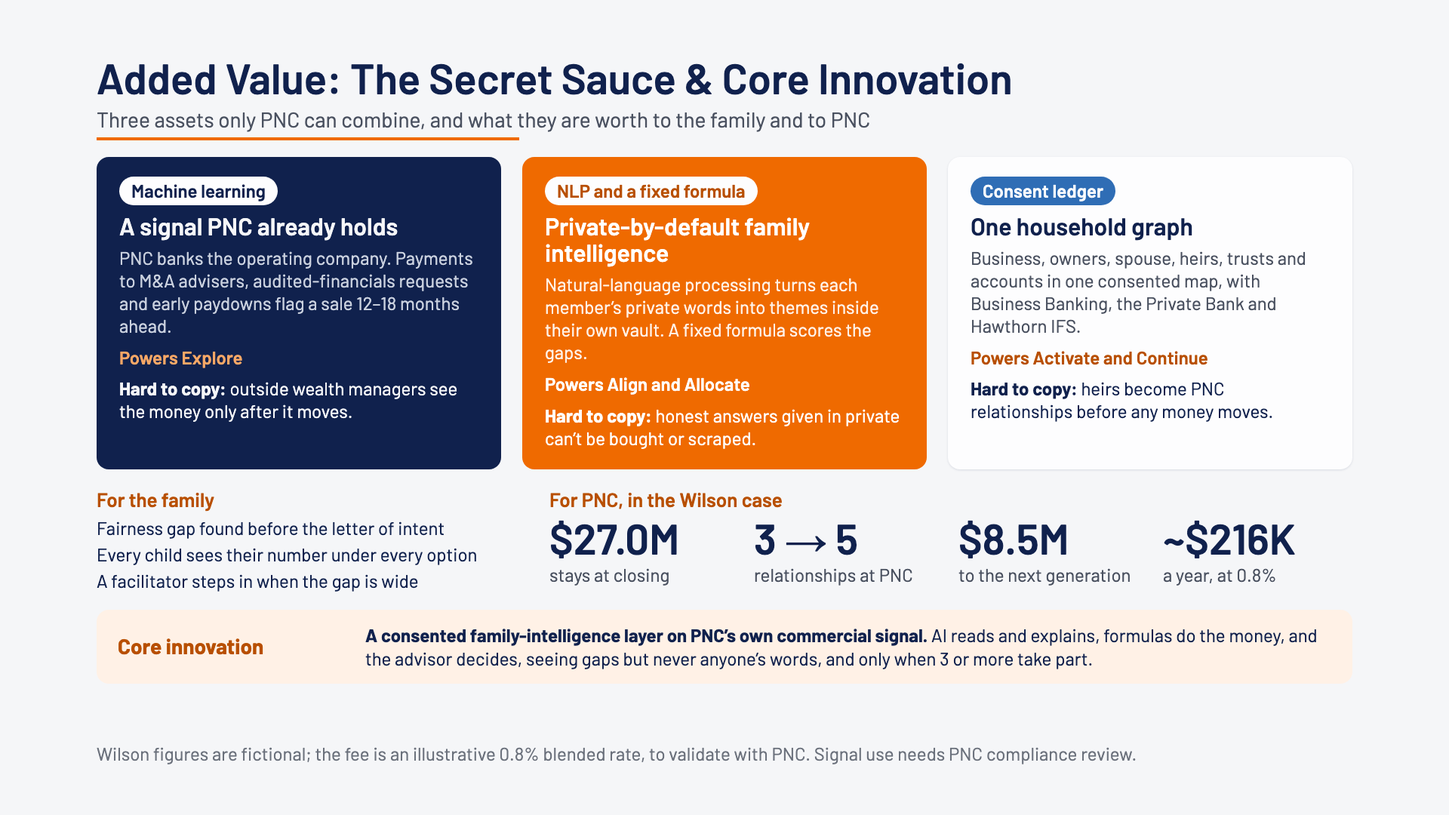
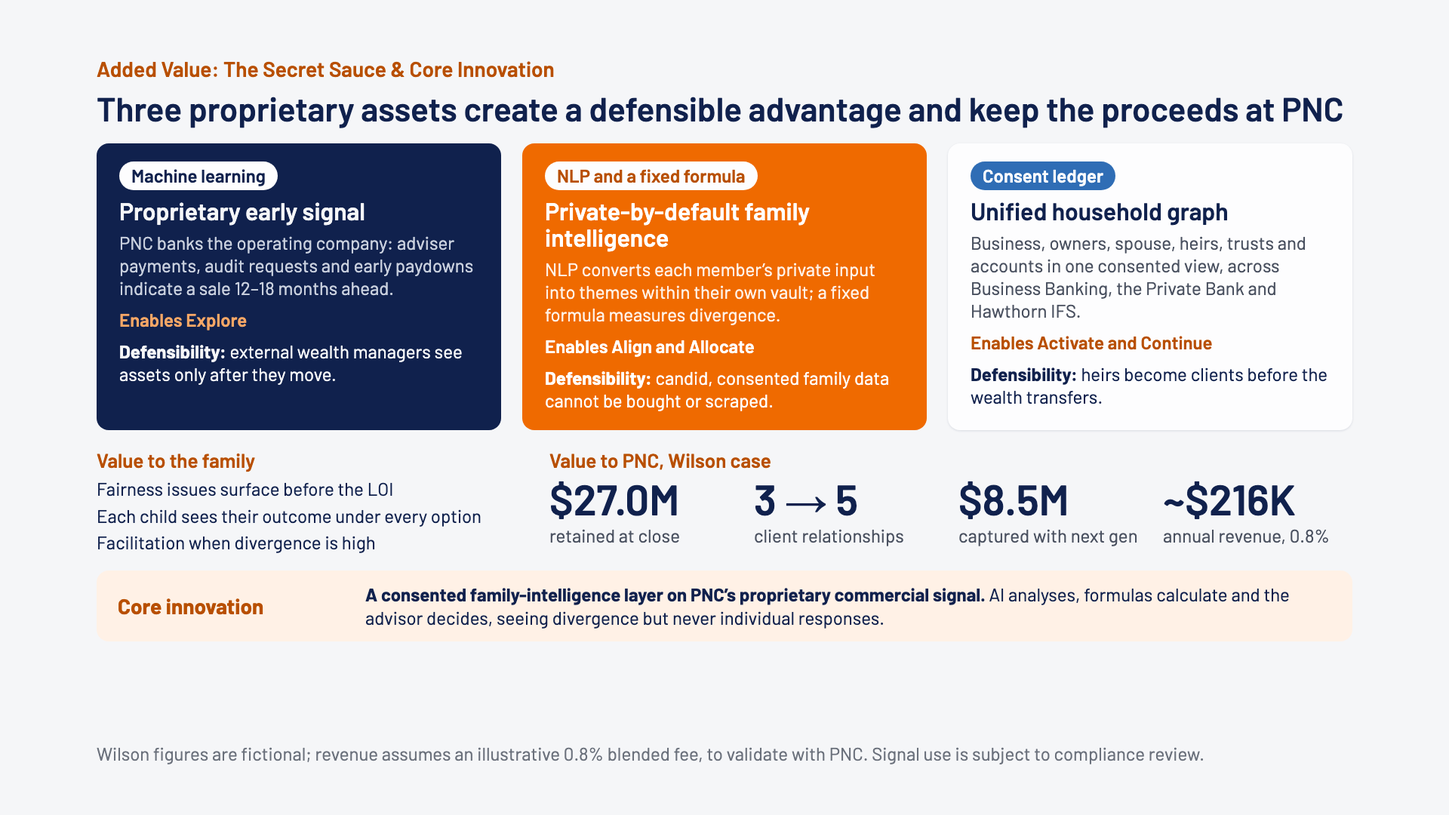
Three-slide deck: three landscape tablets with live links, consulting-style action titles and copy

Changed region(s): [[0.0625, 0.0611, 0.9375, 0.825], [0.2188, 0.9167, 0.8438, 0.9472]]

diff --git a/slides/claude_three/slides/client.html b/slides/claude_three/slides/client.html
@@ -1,54 +1,38 @@
-<section id="client" data-transition="fade" style="background:#F5F6F8;color:#10214D;font-family:'Barlow', Arial, sans-serif;padding:72px 128px 160px;display:flex;flex-direction:column;gap:18px">
-<div style="display:flex;flex-direction:column;gap:6px">
-<h2 style="font-size:56px;font-weight:600;line-height:1.1;color:#10214D">AI Client &amp; Family Experience</h2>
-<p style="font-size:28px;line-height:1.3;color:#4A5160">Two quick steps to start, then the core journey where the family decides: Align, Allocate, Activate</p>
-<div style="width:560px;height:4px;background:#EF6A00"></div>
+<section id="client" data-transition="fade" style="background:#F5F6F8;color:#10214D;font-family:'Barlow', Arial, sans-serif;padding:72px 128px 160px;display:flex;flex-direction:column;gap:22px">
+<div style="display:flex;flex-direction:column;gap:8px">
+<p style="font-size:28px;font-weight:600;color:#B84F00">AI Client &amp; Family Experience</p>
+<h2 style="font-size:44px;font-weight:600;line-height:1.12;color:#10214D">Three guided steps take each family member from a private view to a plan the whole family can stand behind</h2>
 </div>
-<div style="display:flex;flex-direction:row;gap:16px">
-<div style="width:628px;display:flex;flex-direction:row;gap:16px;padding:16px 0">
+<div style="display:flex;flex-direction:row;gap:20px;background:#10214D;border-radius:20px;padding:22px 20px">
 <div style="flex:1;display:flex;flex-direction:column;gap:8px;align-items:center">
-<p style="font-size:24px;font-weight:600;color:#10214D;background:#DDE0E4;padding:2px 20px;border-radius:20px">Explore</p>
-<img src="/_blob/1cb0f5b1113dc45f059174e77e356b79" alt="Scenario preview before talking to PNC: $27.0M likely at closing, split into live on, give and invest" style="width:212px;height:283px;object-fit:cover;object-position:top;border:7px solid #0B1533;border-radius:16px">
-<h3 style="font-size:28px;font-weight:600;line-height:1.15;color:#10214D;text-align:center">See what a sale could mean</h3>
-<p style="font-size:24px;line-height:1.25;color:#4A5160;text-align:center">Before talking to anyone: the likely amount at closing, and two ways to split it.</p>
-<p style="font-size:24px;line-height:1.25;color:#5B3E8A;text-align:center"><b>AI:</b> none; fixed ratios do the math.</p>
-</div>
-<div style="flex:1;display:flex;flex-direction:column;gap:8px;align-items:center">
-<p style="font-size:24px;font-weight:600;color:#10214D;background:#DDE0E4;padding:2px 20px;border-radius:20px">Onboard</p>
-<img src="/_blob/316019cbfc0dbc99ebe8c3c1662e1ee0" alt="Margaret's setup: what fair means to her, with each child's number, and how long $9.0M lasts" style="width:212px;height:283px;object-fit:cover;object-position:top;border:7px solid #0B1533;border-radius:16px">
-<h3 style="font-size:28px;font-weight:600;line-height:1.15;color:#10214D;text-align:center">Confirm facts, sharpen goals</h3>
-<p style="font-size:24px;line-height:1.25;color:#4A5160;text-align:center">PNC fills in what it knows. Margaret ranks three goals and says what fair means.</p>
-<p style="font-size:24px;line-height:1.25;color:#5B3E8A;text-align:center"><b>AI:</b> prefills from PNC records.</p>
-</div>
-</div>
-<div style="flex:1;display:flex;flex-direction:row;gap:16px;background:#10214D;border-radius:20px;padding:16px">
-<div style="flex:1;display:flex;flex-direction:column;gap:8px;align-items:center">
-<p style="font-size:24px;font-weight:600;color:#FFFFFF;background:#EF6A00;padding:2px 20px;border-radius:20px">Align</p>
-<img src="/_blob/c85abe67e76cb8efe76991d7a8abc647" alt="Claire's private check-in: themes detected and a switch to share each answer with Alex" style="width:212px;height:283px;object-fit:cover;object-position:top;border:7px solid #0B1533;border-radius:16px">
-<h3 style="font-size:28px;font-weight:600;line-height:1.15;color:#F5F6F8;text-align:center">Speak in private</h3>
-<p style="font-size:24px;line-height:1.25;color:#C9D0DE;text-align:center">Claire writes what she’s never said, then chooses what Alex may read.</p>
-<p style="font-size:24px;line-height:1.25;color:#D4C6F2;text-align:center"><b>AI:</b> NLP tags themes in her own vault.</p>
+<p style="font-size:24px;font-weight:600;color:#FFFFFF;background:#EF6A00;padding:2px 22px;border-radius:20px">Align</p>
+<img src="/_blob/7a443fab7cc85da3af9e053f8f822af8" alt="Claire's private check-in on a tablet: AI themes detected, a share switch per answer, and a preview of what Alex sees" style="width:360px;height:270px;object-fit:cover;object-position:top;border:7px solid #0B1533;border-radius:16px">
+<h3 style="font-size:30px;font-weight:600;line-height:1.15;color:#F5F6F8;text-align:center">Surface views privately</h3>
+<p style="font-size:24px;line-height:1.25;color:#C9D0DE;text-align:center">Each member checks in alone and decides, answer by answer, what the advisor sees.</p>
+<p style="font-size:24px;line-height:1.25;color:#D4C6F2;text-align:center"><b>AI:</b> NLP extracts themes, privately</p>
+<p style="font-size:24px;font-weight:600;text-align:center"><a href="https://rzrizaldy.github.io/pnc_csl_2026/prototype/?reset#/me/claire/checkin" style="color:#F7A766">Try it live</a></p>
 </div>
 <div style="flex:1;display:flex;flex-direction:column;gap:8px;align-items:center">
-<p style="font-size:24px;font-weight:600;color:#FFFFFF;background:#EF6A00;padding:2px 20px;border-radius:20px">Allocate</p>
-<img src="/_blob/2a928541732968e0879d946d6c07b261" alt="Sam's decision tree: three choices narrow 12 possible plans to 1" style="width:212px;height:283px;object-fit:cover;object-position:top;border:7px solid #0B1533;border-radius:16px">
-<h3 style="font-size:28px;font-weight:600;line-height:1.15;color:#F5F6F8;text-align:center">Vote, then 12 plans to 1</h3>
-<p style="font-size:24px;line-height:1.25;color:#C9D0DE;text-align:center">Each child’s number under every split, a private vote, and a decision tree.</p>
-<p style="font-size:24px;line-height:1.25;color:#D4C6F2;text-align:center"><b>AI:</b> explains; formulas do every number.</p>
+<p style="font-size:24px;font-weight:600;color:#FFFFFF;background:#EF6A00;padding:2px 22px;border-radius:20px">Allocate</p>
+<img src="/_blob/1be6eb346b1834d3dbd6ae0bc9948737" alt="Sam's decision tree on a tablet: three choices narrow 12 possible plans to 1, with every child's resulting share" style="width:360px;height:270px;object-fit:cover;object-position:top;border:7px solid #0B1533;border-radius:16px">
+<h3 style="font-size:30px;font-weight:600;line-height:1.15;color:#F5F6F8;text-align:center">Make trade-offs visible</h3>
+<p style="font-size:24px;line-height:1.25;color:#C9D0DE;text-align:center">Children see their outcome under each option, vote privately and converge on one plan.</p>
+<p style="font-size:24px;line-height:1.25;color:#D4C6F2;text-align:center"><b>AI:</b> explains trade-offs; formulas compute</p>
+<p style="font-size:24px;font-weight:600;text-align:center"><a href="https://rzrizaldy.github.io/pnc_csl_2026/prototype/?reset#/me/sam/decide" style="color:#F7A766">Try it live</a></p>
 </div>
 <div style="flex:1;display:flex;flex-direction:column;gap:8px;align-items:center">
-<p style="font-size:24px;font-weight:600;color:#FFFFFF;background:#EF6A00;padding:2px 20px;border-radius:20px">Activate</p>
-<img src="/_blob/f74c6b25cfbf615cb9270e24198f0b0e" alt="Ask Alex: Sam's question and Alex's reviewed reply with his share range" style="width:212px;height:283px;object-fit:cover;object-position:top;border:7px solid #0B1533;border-radius:16px">
-<h3 style="font-size:28px;font-weight:600;line-height:1.15;color:#F5F6F8;text-align:center">Ask a person, not a bot</h3>
-<p style="font-size:24px;line-height:1.25;color:#C9D0DE;text-align:center">Questions go to Alex. The reply carries its numbers; a call is one tap away.</p>
-<p style="font-size:24px;line-height:1.25;color:#D4C6F2;text-align:center"><b>AI:</b> drafts; Alex checks before it’s sent.</p>
+<p style="font-size:24px;font-weight:600;color:#FFFFFF;background:#EF6A00;padding:2px 22px;border-radius:20px">Activate</p>
+<img src="/_blob/4aef0e68153783241b74dfe501e7ea06" alt="Ask Alex on a tablet: Sam's question and Alex's reviewed reply with his share range, plus a call booking option" style="width:360px;height:270px;object-fit:cover;object-position:top;border:7px solid #0B1533;border-radius:16px">
+<h3 style="font-size:30px;font-weight:600;line-height:1.15;color:#F5F6F8;text-align:center">Act with the advisor</h3>
+<p style="font-size:24px;line-height:1.25;color:#C9D0DE;text-align:center">The advisor answers questions, reviews each AI draft and brings in specialists.</p>
+<p style="font-size:24px;line-height:1.25;color:#D4C6F2;text-align:center"><b>AI:</b> drafts replies for advisor approval</p>
+<p style="font-size:24px;font-weight:600;text-align:center"><a href="https://rzrizaldy.github.io/pnc_csl_2026/prototype/?reset#/me/sam/ask" style="color:#F7A766">Try it live</a></p>
 </div>
 </div>
+<div style="display:flex;flex-direction:row;gap:28px;align-items:center;background:#FFF1E6;border-radius:16px;padding:16px 28px">
+<p style="width:300px;font-size:28px;font-weight:700;line-height:1.1;color:#B84F00">Family outcome</p>
+<p style="flex:1;font-size:24px;line-height:1.3;color:#10214D"><b>Clarity</b> on what each person receives, <b>fairness</b> without confrontation, and <b>confidence</b> that a person reviews every answer.</p>
 </div>
-<div style="display:flex;flex-direction:row;gap:28px;align-items:center;background:#FFF1E6;border-radius:16px;padding:14px 28px">
-<p style="width:300px;font-size:28px;font-weight:700;line-height:1.1;color:#B84F00">What the family gets</p>
-<p style="flex:1;font-size:24px;line-height:1.3;color:#10214D"><b>Clarity:</b> their own number, not a guess. <b>Fairness:</b> a private voice, without a fight at dinner. <b>Confidence:</b> every answer is checked by a person before it reaches them.</p>
-</div>
-<p style="position:absolute;left:128px;bottom:64px;width:1664px;font-size:24px;color:#6B717C">Source: Family Table prototype (tablet view). The Wilson family, portraits and figures are fictional; AI steps are simulated, formulas are real.</p>
-<aside>Five moments on the family side, all on a phone. Explore and Onboard are the lead-in; the core journey, where the family actually decides, is Align, Allocate and Activate. Before Margaret ever talks to PNC, the preview shows what a sale could mean for a family like hers. Once she joins, PNC has already filled in the facts; she ranks her goals and says what fair means to her. Claire checks in privately: natural-language processing tags themes, and she decides what Alex may read. Each child sees their own number under every split, votes privately, and a decision tree narrows 12 possible plans to one. Questions go to Alex, not a chatbot: the AI drafts, Alex checks and sends. This answers Margaret’s friction: a guided portal, not a dense dashboard, and no direct confrontation at the dinner table.</aside>
+<p style="position:absolute;left:128px;bottom:64px;width:1664px;font-size:24px;color:#6B717C">Source: Family Table prototype, tablet view; <a href="https://rzrizaldy.github.io/pnc_csl_2026/prototype/?tour" style="color:#2A6EBB">full demo</a>. Family, portraits and figures are fictional; AI steps are simulated.</p>
+<aside>The family experience reduces to three steps, the core of the journey. Align: each member checks in privately; natural-language processing extracts themes inside their own vault, and the member decides, answer by answer, what the advisor may read. Allocate: each child sees their outcome under every distribution option, votes privately, and a decision tree narrows twelve possible plans to one; every figure comes from a fixed formula. Activate: questions go to the advisor, not a chatbot; the AI drafts, the advisor reviews and sends, and brings in specialists as needed. Each tablet links to the same screen in the live prototype, so the audience can try it. This addresses Margaret’s friction directly: a guided experience rather than a dense dashboard, and no direct confrontation at the dinner table.</aside>
 </section>

diff --git a/slides/claude_three/slides/sauce.html b/slides/claude_three/slides/sauce.html
@@ -1,53 +1,52 @@
 <section id="sauce" data-transition="fade" style="background:#F5F6F8;color:#10214D;font-family:'Barlow', Arial, sans-serif;padding:72px 128px 160px;display:flex;flex-direction:column;gap:22px">
-<div style="display:flex;flex-direction:column;gap:6px">
-<h2 style="font-size:56px;font-weight:600;line-height:1.1;color:#10214D">Added Value: The Secret Sauce &amp; Core Innovation</h2>
-<p style="font-size:28px;line-height:1.3;color:#4A5160">Three assets only PNC can combine, and what they are worth to the family and to PNC</p>
-<div style="width:560px;height:4px;background:#EF6A00"></div>
+<div style="display:flex;flex-direction:column;gap:8px">
+<p style="font-size:28px;font-weight:600;color:#B84F00">Added Value: The Secret Sauce &amp; Core Innovation</p>
+<h2 style="font-size:44px;font-weight:600;line-height:1.12;color:#10214D">Three proprietary assets create a defensible advantage and keep the proceeds at PNC</h2>
 </div>
 <div style="display:flex;flex-direction:row;gap:28px">
-<div style="flex:1;display:flex;flex-direction:column;gap:10px;background:#10214D;padding:26px 30px;border-radius:16px">
+<div style="flex:1;display:flex;flex-direction:column;gap:10px;background:#10214D;padding:24px 30px;border-radius:16px">
 <div style="display:flex;flex-direction:row"><p style="font-size:24px;font-weight:600;color:#10214D;background:#FDFDFE;padding:2px 16px;border-radius:20px">Machine learning</p></div>
-<h3 style="font-size:32px;font-weight:600;line-height:1.1;color:#F5F6F8">A signal PNC already holds</h3>
-<p style="font-size:24px;line-height:1.25;color:#C9D0DE">PNC banks the operating company. Payments to M&amp;A advisers, audited-financials requests and early paydowns flag a sale 12–18 months ahead.</p>
-<p style="font-size:24px;font-weight:600;color:#F7A766">Powers Explore</p>
-<p style="font-size:24px;line-height:1.25;color:#F5F6F8"><b>Hard to copy:</b> outside wealth managers see the money only after it moves.</p>
+<h3 style="font-size:32px;font-weight:600;line-height:1.1;color:#F5F6F8">Proprietary early signal</h3>
+<p style="font-size:24px;line-height:1.25;color:#C9D0DE">PNC banks the operating company: adviser payments, audit requests and early paydowns indicate a sale 12–18 months ahead.</p>
+<p style="font-size:24px;font-weight:600;color:#F7A766">Enables Explore</p>
+<p style="font-size:24px;line-height:1.25;color:#F5F6F8"><b>Defensibility:</b> external wealth managers see assets only after they move.</p>
 </div>
-<div style="flex:1;display:flex;flex-direction:column;gap:10px;background:#EF6A00;padding:26px 30px;border-radius:16px">
+<div style="flex:1;display:flex;flex-direction:column;gap:10px;background:#EF6A00;padding:24px 30px;border-radius:16px">
 <div style="display:flex;flex-direction:row"><p style="font-size:24px;font-weight:600;color:#B84F00;background:#FDFDFE;padding:2px 16px;border-radius:20px">NLP and a fixed formula</p></div>
 <h3 style="font-size:32px;font-weight:600;line-height:1.1;color:#FFFFFF">Private-by-default family intelligence</h3>
-<p style="font-size:24px;line-height:1.25;color:#FFF1E6">Natural-language processing turns each member’s private words into themes inside their own vault. A fixed formula scores the gaps.</p>
-<p style="font-size:24px;font-weight:600;color:#FFFFFF">Powers Align and Allocate</p>
-<p style="font-size:24px;line-height:1.25;color:#FFFFFF"><b>Hard to copy:</b> honest answers given in private can’t be bought or scraped.</p>
+<p style="font-size:24px;line-height:1.25;color:#FFF1E6">NLP converts each member’s private input into themes within their own vault; a fixed formula measures divergence.</p>
+<p style="font-size:24px;font-weight:600;color:#FFFFFF">Enables Align and Allocate</p>
+<p style="font-size:24px;line-height:1.25;color:#FFFFFF"><b>Defensibility:</b> candid, consented family data cannot be bought or scraped.</p>
 </div>
-<div style="flex:1;display:flex;flex-direction:column;gap:10px;background:#FDFDFE;padding:26px 30px;border-radius:16px;box-shadow:0px 1px 3px rgba(16,33,77,0.12)">
+<div style="flex:1;display:flex;flex-direction:column;gap:10px;background:#FDFDFE;padding:24px 30px;border-radius:16px;box-shadow:0px 1px 3px rgba(16,33,77,0.12)">
 <div style="display:flex;flex-direction:row"><p style="font-size:24px;font-weight:600;color:#FDFDFE;background:#2F6DB5;padding:2px 16px;border-radius:20px">Consent ledger</p></div>
-<h3 style="font-size:32px;font-weight:600;line-height:1.1;color:#10214D">One household graph</h3>
-<p style="font-size:24px;line-height:1.25;color:#4A5160">Business, owners, spouse, heirs, trusts and accounts in one consented map, with Business Banking, the Private Bank and Hawthorn IFS.</p>
-<p style="font-size:24px;font-weight:600;color:#B84F00">Powers Activate and Continue</p>
-<p style="font-size:24px;line-height:1.25;color:#10214D"><b>Hard to copy:</b> heirs become PNC relationships before any money moves.</p>
+<h3 style="font-size:32px;font-weight:600;line-height:1.1;color:#10214D">Unified household graph</h3>
+<p style="font-size:24px;line-height:1.25;color:#4A5160">Business, owners, spouse, heirs, trusts and accounts in one consented view, across Business Banking, the Private Bank and Hawthorn IFS.</p>
+<p style="font-size:24px;font-weight:600;color:#B84F00">Enables Activate and Continue</p>
+<p style="font-size:24px;line-height:1.25;color:#10214D"><b>Defensibility:</b> heirs become clients before the wealth transfers.</p>
 </div>
 </div>
 <div style="display:flex;flex-direction:row;gap:40px">
 <div style="width:560px;display:flex;flex-direction:column;gap:4px">
-<p style="font-size:26px;font-weight:600;color:#B84F00">For the family</p>
-<p style="font-size:24px;line-height:1.3;color:#10214D">Fairness gap found before the letter of intent</p>
-<p style="font-size:24px;line-height:1.3;color:#10214D">Every child sees their number under every option</p>
-<p style="font-size:24px;line-height:1.3;color:#10214D">A facilitator steps in when the gap is wide</p>
+<p style="font-size:26px;font-weight:600;color:#B84F00">Value to the family</p>
+<p style="font-size:24px;line-height:1.3;color:#10214D">Fairness issues surface before the LOI</p>
+<p style="font-size:24px;line-height:1.3;color:#10214D">Each child sees their outcome under every option</p>
+<p style="font-size:24px;line-height:1.3;color:#10214D">Facilitation when divergence is high</p>
 </div>
 <div style="flex:1;display:flex;flex-direction:column;gap:4px">
-<p style="font-size:26px;font-weight:600;color:#B84F00">For PNC, in the Wilson case</p>
+<p style="font-size:26px;font-weight:600;color:#B84F00">Value to PNC, Wilson case</p>
 <div style="display:flex;flex-direction:row;gap:20px">
-<div style="flex:1;display:flex;flex-direction:column;gap:2px"><p style="font-size:56px;font-weight:600;line-height:1.05;color:#10214D">$27.0M</p><p style="font-size:24px;color:#4A5160">stays at closing</p></div>
-<div style="flex:1;display:flex;flex-direction:column;gap:2px"><p style="font-size:56px;font-weight:600;line-height:1.05;color:#10214D">3 → 5</p><p style="font-size:24px;color:#4A5160">relationships at PNC</p></div>
-<div style="flex:1;display:flex;flex-direction:column;gap:2px"><p style="font-size:56px;font-weight:600;line-height:1.05;color:#10214D">$8.5M</p><p style="font-size:24px;color:#4A5160">to the next generation</p></div>
-<div style="flex:1;display:flex;flex-direction:column;gap:2px"><p style="font-size:56px;font-weight:600;line-height:1.05;color:#10214D">~$216K</p><p style="font-size:24px;color:#4A5160">a year, at 0.8%</p></div>
+<div style="flex:1;display:flex;flex-direction:column;gap:2px"><p style="font-size:56px;font-weight:600;line-height:1.05;color:#10214D">$27.0M</p><p style="font-size:24px;color:#4A5160">retained at close</p></div>
+<div style="flex:1;display:flex;flex-direction:column;gap:2px"><p style="font-size:56px;font-weight:600;line-height:1.05;color:#10214D">3 → 5</p><p style="font-size:24px;color:#4A5160">client relationships</p></div>
+<div style="flex:1;display:flex;flex-direction:column;gap:2px"><p style="font-size:56px;font-weight:600;line-height:1.05;color:#10214D">$8.5M</p><p style="font-size:24px;color:#4A5160">captured with next gen</p></div>
+<div style="flex:1;display:flex;flex-direction:column;gap:2px"><p style="font-size:56px;font-weight:600;line-height:1.05;color:#10214D">~$216K</p><p style="font-size:24px;color:#4A5160">annual revenue, 0.8%</p></div>
 </div>
 </div>
 </div>
-<div style="display:flex;flex-direction:row;gap:28px;align-items:center;background:#FFF1E6;border-radius:16px;padding:18px 28px">
+<div style="display:flex;flex-direction:row;gap:28px;align-items:center;background:#FFF1E6;border-radius:16px;padding:16px 28px">
 <p style="width:300px;font-size:28px;font-weight:700;line-height:1.1;color:#B84F00">Core innovation</p>
-<p style="flex:1;font-size:24px;line-height:1.3;color:#10214D"><b>A consented family-intelligence layer on PNC’s own commercial signal.</b> AI reads and explains, formulas do the money, and the advisor decides, seeing gaps but never anyone’s words, and only when 3 or more take part.</p>
+<p style="flex:1;font-size:24px;line-height:1.3;color:#10214D"><b>A consented family-intelligence layer on PNC’s proprietary commercial signal.</b> AI analyses, formulas calculate and the advisor decides, seeing divergence but never individual responses.</p>
 </div>
-<p style="position:absolute;left:128px;bottom:64px;width:1664px;font-size:24px;color:#6B717C">Wilson figures are fictional; the fee is an illustrative 0.8% blended rate, to validate with PNC. Signal use needs PNC compliance review.</p>
-<aside>Generative AI and alerts are easy to copy; these three assets are not. First, timing: PNC banks the operating company, so its own account data can flag a sale a year before closing, while outside wealth managers see the money only after it moves. Second, private-by-default family intelligence: natural-language processing turns each member’s private words into themes inside their own vault, a fixed formula scores the gaps, and Alex sees the size of a disagreement, never the words, and only when at least three people take part. Honest answers given in private are data no competitor can buy or scrape. Third, one household graph links the business to every heir, so the next generation meets PNC before the money moves. The added value: for the family, the fairness question surfaces before the letter of intent. For PNC, in the Wilson case, $27.0M stays, relationships grow from three to five, $8.5M reaches the next generation at PNC, and the fees are about $216K a year at an illustrative 0.8%.</aside>
+<p style="position:absolute;left:128px;bottom:64px;width:1664px;font-size:24px;color:#6B717C">Wilson figures are fictional; revenue assumes an illustrative 0.8% blended fee, to validate with PNC. Signal use is subject to compliance review.</p>
+<aside>Generative AI and alerts are easy to replicate; these three assets are not, and each enables a stage of the journey. The proprietary early signal enables Explore: PNC banks the operating company, so its own account data can indicate a sale a year before closing, while external wealth managers see the assets only after they move. Private-by-default family intelligence enables Align and Allocate: natural-language processing converts each member’s private input into themes inside their own vault, a fixed formula measures divergence, and the advisor sees the size of a disagreement, never individual responses, and only when at least three members contribute. Candid, consented family data cannot be bought or scraped. The unified household graph enables Activate and Continue: the next generation becomes a PNC relationship before the wealth transfers. In the Wilson case, $27.0M is retained at close, client relationships grow from three to five, $8.5M is captured with the next generation, and annual revenue is about $216K at an illustrative 0.8% blended fee.</aside>
 </section>

diff --git a/slides/claude_three/slides/advisor.html b/slides/claude_three/slides/advisor.html
@@ -1,29 +1,28 @@
 <section id="advisor" data-transition="fade" style="background:#F5F6F8;color:#10214D;font-family:'Barlow', Arial, sans-serif;padding:72px 128px 160px;display:flex;flex-direction:column;gap:22px">
-<div style="display:flex;flex-direction:column;gap:6px">
-<h2 style="font-size:56px;font-weight:600;line-height:1.1;color:#10214D">AI Advisor Workbench</h2>
-<p style="font-size:28px;line-height:1.3;color:#4A5160">Alex sees the sale a year early, then AI does the reading in each core stage and Alex makes every call</p>
-<div style="width:560px;height:4px;background:#EF6A00"></div>
+<div style="display:flex;flex-direction:column;gap:8px">
+<p style="font-size:28px;font-weight:600;color:#B84F00">AI Advisor Workbench</p>
+<h2 style="font-size:44px;font-weight:600;line-height:1.12;color:#10214D">AI handles the analysis, so the advisor can focus on judgment and the relationship</h2>
 </div>
 <div style="display:flex;flex-direction:row;gap:28px">
 <table style="width:1146px;font-family:'Barlow', Arial, sans-serif;font-size:24px;color:#10214D">
-<tr style="background:#10214D"><th style="width:13%;color:#F5F6F8">Stage</th><th style="width:18%;color:#F5F6F8">AI tool</th><th style="width:39%;color:#F5F6F8">What the AI does</th><th style="width:30%;color:#F5F6F8">What Alex decides</th></tr>
-<tr style="background:#FDFDFE"><td style="color:#5E646E"><b>Explore</b></td><td><b>Sale signal</b></td><td style="color:#4A5160">Machine learning scores business-account activity: 81 out of 100, 12–18 months before closing, with its reasons.</td><td>Whether and when to call Margaret.</td></tr>
-<tr style="background:#FFF1E6"><td style="color:#B84F00"><b>Align</b></td><td><b>Family brief</b></td><td style="color:#4A5160">NLP turns four check-ins into themes; a fixed formula scores the gaps (fairness 1.00); Document AI flags the 2012 will.</td><td>Approves the brief. Books a Hawthorn facilitator when a gap passes 0.75.</td></tr>
-<tr style="background:#FDFDFE"><td style="color:#B84F00"><b>Allocate</b></td><td><b>Meeting guide and options</b></td><td style="color:#4A5160">Turns the brief into a 90-minute run of show and five presenting screens; explains each split by formula.</td><td>What to present. The facilitator leads fairness; the family decides in principle.</td></tr>
-<tr style="background:#FFF1E6"><td style="color:#B84F00"><b>Activate</b></td><td><b>Inbox and specialists</b></td><td style="color:#4A5160">Drafts each reply from the plan; routes five specialist teams; flags $8.0–9.0M heading to heirs who bank elsewhere.</td><td>Sends every reply. Introduces PNC to Claire and Sam, with Margaret’s agreement.</td></tr>
+<tr style="background:#10214D"><th style="width:13%;color:#F5F6F8">Stage</th><th style="width:18%;color:#F5F6F8">AI tool</th><th style="width:39%;color:#F5F6F8">What the AI does</th><th style="width:30%;color:#F5F6F8">What the advisor decides</th></tr>
+<tr style="background:#FDFDFE"><td style="color:#5E646E"><b>Explore</b></td><td><b>Sale signal</b></td><td style="color:#4A5160">Scores business-account activity to flag a likely sale 12–18 months out (81/100), with its drivers.</td><td>Whether and when to engage the founder.</td></tr>
+<tr style="background:#FFF1E6"><td style="color:#B84F00"><b>Align</b></td><td><b>Family brief</b></td><td style="color:#4A5160">Converts four private check-ins into themes, scores divergence by formula (fairness: 1.00) and flags the 2012 will.</td><td>Approves the brief; brings in a Hawthorn facilitator above 0.75.</td></tr>
+<tr style="background:#FDFDFE"><td style="color:#B84F00"><b>Allocate</b></td><td><b>Meeting guide</b></td><td style="color:#4A5160">Builds a 90-minute agenda and five presentation screens; explains each option with calculator outputs.</td><td>Leads the meeting; the facilitator manages the fairness discussion.</td></tr>
+<tr style="background:#FFF1E6"><td style="color:#B84F00"><b>Activate</b></td><td><b>Inbox and referrals</b></td><td style="color:#4A5160">Drafts client replies, routes work to five specialist teams and flags $8.0–9.0M heading to non-client heirs.</td><td>Approves every reply; introduces PNC to Claire and Sam, with Margaret’s consent.</td></tr>
 </table>
 <div style="flex:1;display:flex;flex-direction:column;gap:8px">
 <img src="/_blob/e28ff431a61dd2cc888fb85e2d6329ba" alt="AI brief: the widest gap is 1.00 on equal shares, against Margaret's belief that the kids agree, with each AI step shown" style="width:490px;height:240px;object-fit:cover;object-position:top;border:1px solid #DDE0E4;border-radius:8px">
-<p style="font-size:24px;color:#4A5160"><b>AI brief:</b> each step shown, Alex approves</p>
+<p style="font-size:24px;color:#4A5160"><b>AI brief:</b> traceable steps, advisor sign-off</p>
 <div style="height:8px"></div>
 <img src="/_blob/f6f8d993b93b82da60e607184f52e4e6" alt="Meeting guide: a 90-minute run of show in five segments, with a button to present to the family" style="width:490px;height:240px;object-fit:cover;object-position:top;border:1px solid #DDE0E4;border-radius:8px">
-<p style="font-size:24px;color:#4A5160"><b>Meeting guide:</b> AI drafts, Alex presents</p>
+<p style="font-size:24px;color:#4A5160"><b>Meeting guide:</b> AI-drafted, advisor-led</p>
 </div>
 </div>
-<div style="display:flex;flex-direction:row;gap:28px;align-items:center;background:#FFF1E6;border-radius:16px;padding:18px 28px">
-<p style="width:300px;font-size:28px;font-weight:700;line-height:1.1;color:#B84F00">Advisor rule</p>
-<p style="flex:1;font-size:24px;line-height:1.3;color:#10214D">AI reads, scores, drafts and routes. <b>Alex reviews every output before any client action,</b> and sees the family’s gaps, never anyone’s words.</p>
+<div style="display:flex;flex-direction:row;gap:28px;align-items:center;background:#FFF1E6;border-radius:16px;padding:16px 28px">
+<p style="width:300px;font-size:28px;font-weight:700;line-height:1.1;color:#B84F00">Governance</p>
+<p style="flex:1;font-size:24px;line-height:1.3;color:#10214D">AI analyses, scores, drafts and routes. <b>The advisor approves every output before it reaches the client,</b> and sees divergence, never individual responses.</p>
 </div>
 <p style="position:absolute;left:128px;bottom:64px;width:1664px;font-size:24px;color:#6B717C">Source: Family Table prototype. Scores, family data and figures are fictional; the signal model is a hypothesis to validate on PNC data.</p>
-<aside>The advisor side, stage by stage: the signal in Explore, then one AI tool for each core stage, Align, Allocate and Activate. Each row says what the AI does and what Alex decides, because the rule is that Alex reviews every output before any client action. The signal comes from PNC’s own business-account data, a year before closing. The brief is the core insight: Margaret told Alex the kids are on the same page, but the family’s widest gap is fairness. Alex sees it as a range, with no names. The AI then turns the brief into a 90-minute meeting guide with screens to present, drafts replies to the family that Alex sends, and routes tasks to five specialist teams. It also flags the $8 to 9 million heading to two heirs who bank elsewhere. This answers Alex’s friction: hearing only the founder, undocumented concerns, and capabilities spread across business units.</aside>
+<aside>The advisor workbench, stage by stage. In Explore, PNC’s own business-account data flags a likely sale a year before closing, and the advisor decides whether to engage. Then one AI tool for each core stage. Align: the family brief carries the core insight. Margaret believes her children agree, but the family’s widest divergence is on fairness, shown as a range with no names; Document AI also flags the 2012 will. Allocate: the AI turns the brief into a 90-minute agenda with presentation screens, and every figure comes from the calculator. Activate: the AI drafts client replies for the advisor to approve, routes work to five specialist teams, and flags the $8 to 9 million heading to heirs who bank elsewhere. The governance rule holds throughout: the advisor approves every output before any client action. This addresses Alex’s friction: hearing only the founder, undocumented concerns, and capabilities spread across business units.</aside>
 </section>

diff --git a/video/src/slide_shots_canva.js b/video/src/slide_shots_canva.js
@@ -5,8 +5,9 @@ const fs = require("fs");
 const path = require("path");
 const BIN = path.join(process.env.HOME, "Library/Caches/ms-playwright/chromium_headless_shell-1234/chrome-headless-shell-mac-arm64/chrome-headless-shell");
 const BASE = (process.argv[2] && !process.argv[2].startsWith("--") && process.argv[2]) || "http://localhost:4311/prototype/";
-const TABLET = process.argv.includes("--tablet"); // tablet mockups for the three-slide Claude deck
-const OUT = path.join(__dirname, TABLET ? "../../slides/claude_three/raw" : "../../slides/canva/raw");
+const TABLET = process.argv.includes("--tablet") || process.argv.includes("--landscape"); // tablet mockups for the three-slide Claude deck
+const LAND = process.argv.includes("--landscape"); // 1024 x 768, the three core-journey screens only
+const OUT = path.join(__dirname, LAND ? "../../slides/claude_three/raw_land" : TABLET ? "../../slides/claude_three/raw" : "../../slides/canva/raw");
 const MID = { started: true, invited: true, shared: ["q1"], approved: true };
 const PHONE = [
   ["preview", "p1_preview", { pv: { preset: "wilson", value: 48, kids: 3, inBiz: 1 } }, null],
@@ -26,13 +27,13 @@ const DESK = [
   const b = await chromium.launch({ executablePath: BIN, args: ["--hide-scrollbars"] });
   const errs = [];
   const go = async (p, r, st) => { await p.evaluate(([r, st]) => { window.FT.reset(); window.FT.set(st); location.hash = "#/" + r; }, [r, st]); await p.waitForTimeout(450); };
-  const p = await b.newPage({ viewport: TABLET ? { width: 768, height: 1024 } : { width: 390, height: 844 }, deviceScaleFactor: 2 });
+  const p = await b.newPage({ viewport: LAND ? { width: 1024, height: 768 } : TABLET ? { width: 768, height: 1024 } : { width: 390, height: 844 }, deviceScaleFactor: 2 });
   p.on("pageerror", e => errs.push(e.message));
   await p.emulateMedia({ reducedMotion: "reduce" });
   await p.goto(BASE + "?reset#/", { waitUntil: "networkidle" });
-  for (const [r, n, st, to] of PHONE) {
+  for (const [r, n, st, to] of (LAND ? PHONE.filter(([, n]) => /checkin|decide|ask/.test(n)) : PHONE)) {
     await go(p, r, st);
-    if (to) await p.evaluate(s => { const el = document.querySelector(s); scrollTo(0, el.getBoundingClientRect().top + scrollY - 64); }, to);
+    if (to && !LAND) await p.evaluate(s => { const el = document.querySelector(s); scrollTo(0, el.getBoundingClientRect().top + scrollY - 64); }, to);
     await p.evaluate(() => Promise.all([...document.images].map(i => i.complete || new Promise(r => { i.onload = i.onerror = r; }))));
     await p.waitForTimeout(250);
     await p.screenshot({ path: path.join(OUT, n + ".png") });

diff --git a/video/src/slides_check.js b/video/src/slides_check.js
@@ -9,6 +9,9 @@ const BIN = path.join(process.env.HOME, "Library/Caches/ms-playwright/chromium_h
 const [root, out] = process.argv.slice(2);
 const SHOTS = path.join(__dirname, "../../prototype/shots");
 const BLOBS = {
+  "7a443fab7cc85da3af9e053f8f822af8": "../../slides/claude_three/raw_land/p3_checkin.png",
+  "1be6eb346b1834d3dbd6ae0bc9948737": "../../slides/claude_three/raw_land/p4_decide.png",
+  "4aef0e68153783241b74dfe501e7ea06": "../../slides/claude_three/raw_land/p5_ask.png",
   "1cb0f5b1113dc45f059174e77e356b79": "../../slides/claude_three/raw/p1_preview.png",
   "316019cbfc0dbc99ebe8c3c1662e1ee0": "../../slides/claude_three/raw/p2_setup.png",
   "c85abe67e76cb8efe76991d7a8abc647": "../../slides/claude_three/raw/p3_checkin.png",
